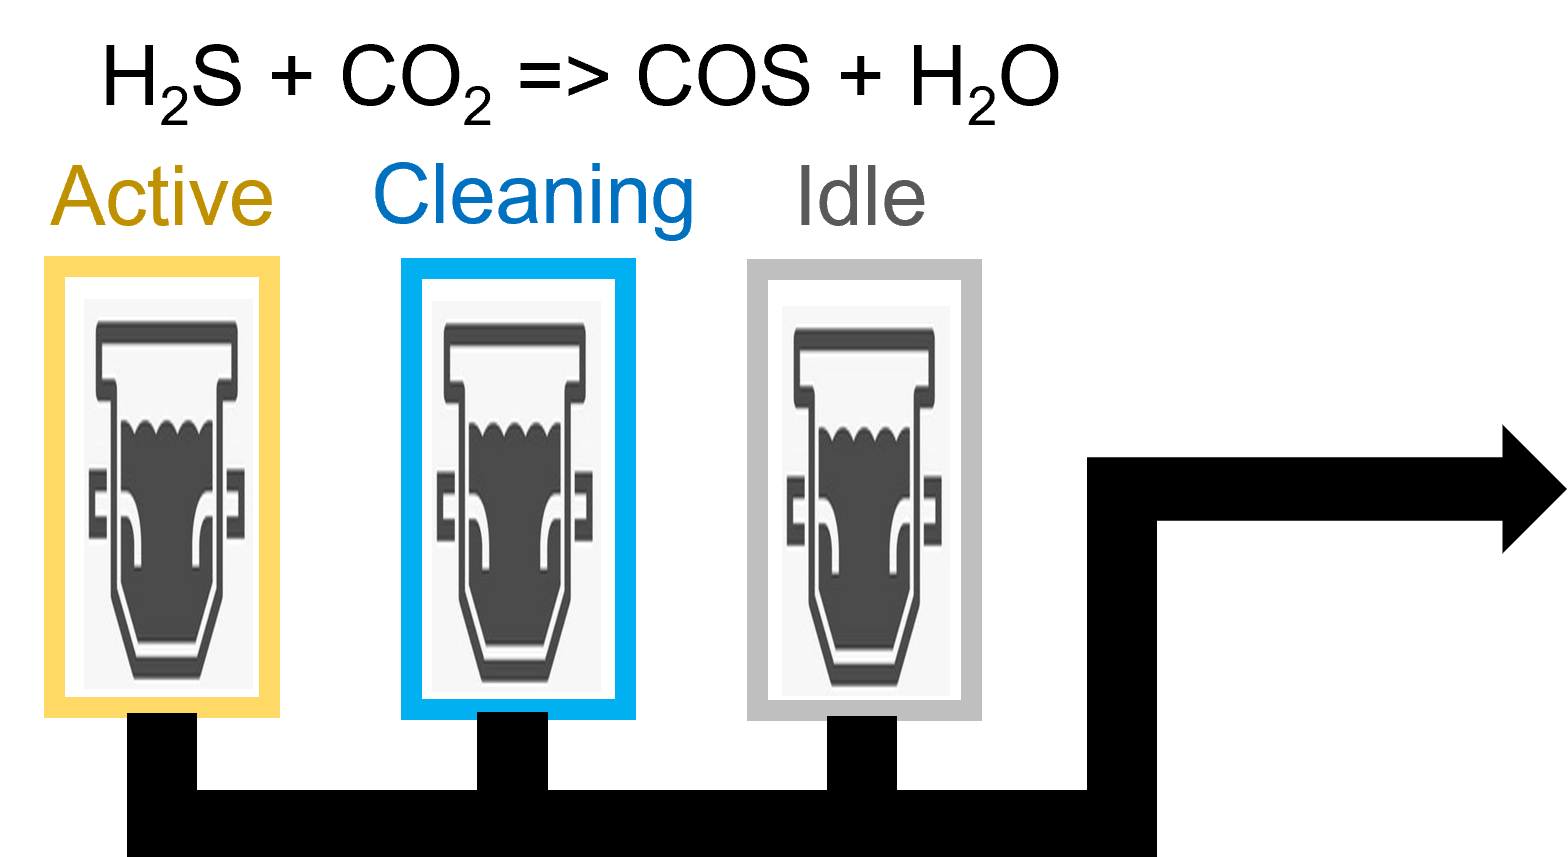
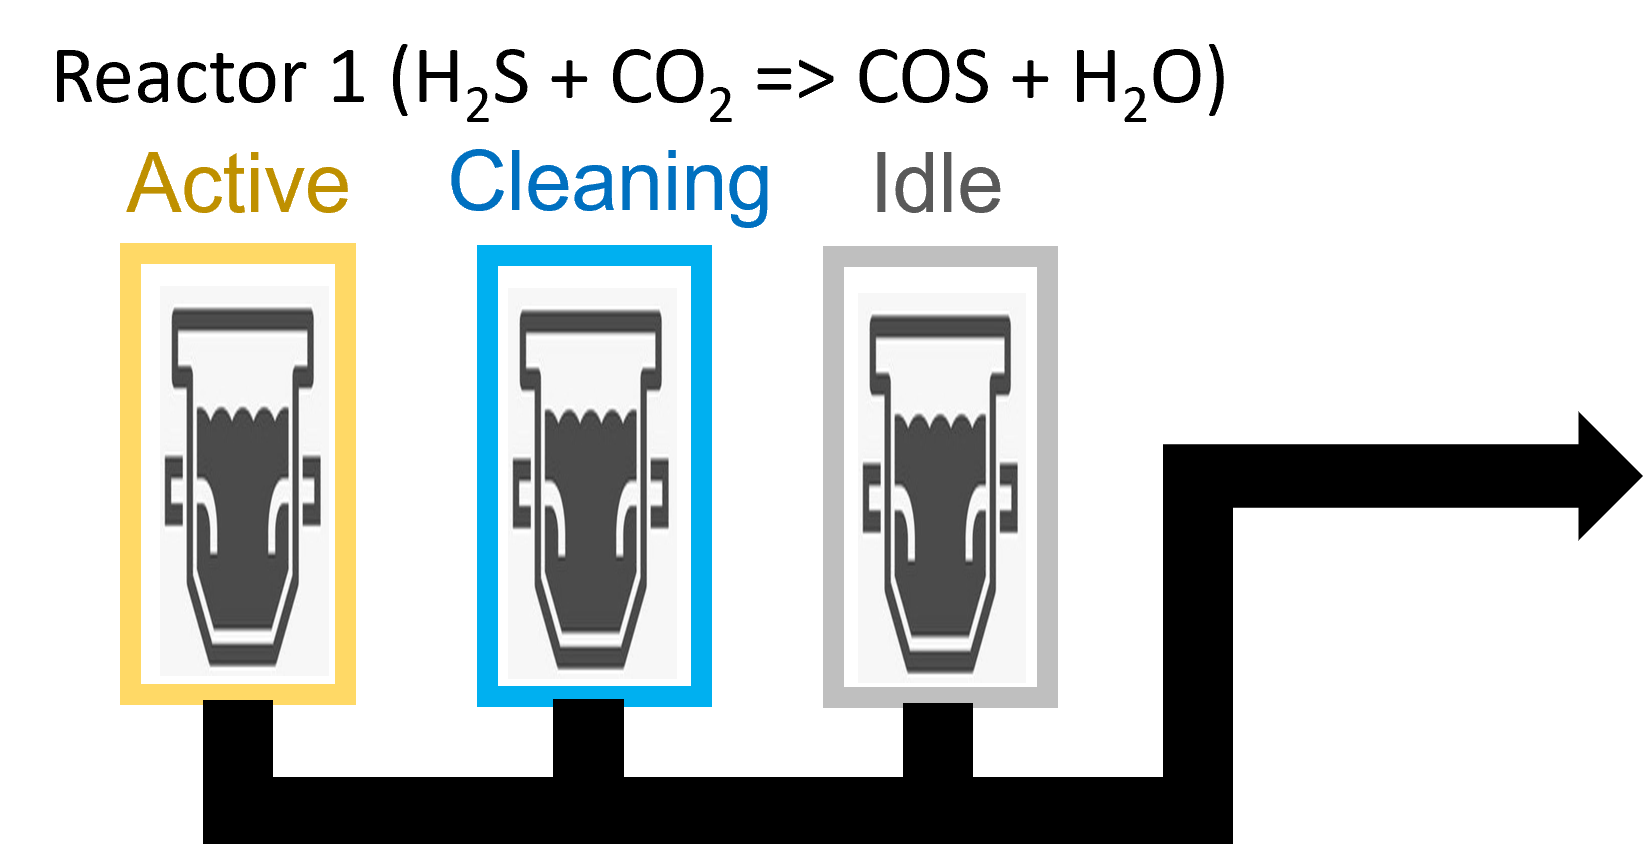
Working prototype. Added images and associated logic.

Changed region(s): [[0.0, 0.0308, 0.75, 1.0], [0.4688, 0.1848, 0.6562, 0.9242], [0.6875, 0.4929, 1.0, 1.0]]

diff --git a/dashboard_components.py b/dashboard_components.py
@@ -7,12 +7,10 @@ Created on Wed May 17 09:30:04 2023
 import numpy as np
 from plotly.subplots import make_subplots
 import plotly.graph_objects as go
-import plotly.express as px
 from weather_energy_components import data_length
 from plant_components import Battery, Reactor1, Reactor2
 from weather_energy_components import Hourly_state, distribute_energy, battery_max
 import math
-
 
 #periods per hour. Reactor states will be calculated "pph" times per hour. eg
 #if pph = 10, states are calculated every 1hr/10 = 6 min. This is necessary because 
@@ -22,13 +20,13 @@ pph = 10
 #step duration for each change of energy allocation
 alloc_step = 10
 
-#how fast r1 gets saturated per kg COS produced
+#how fast r1 gets saturated per mol COS produced
 r1_sat_factor = 5
 
 r1_clean_speed = 10
 
 #Sx filter saturation speed
-sx_sat_factor = .4
+sx_sat_factor = 3
 
 #length of graphs' x axes.
 idle_start_length = 500
@@ -52,8 +50,9 @@ sx_filter_changes = np.zeros(num_periods + idle_start_length)
 r1_changovers = np.zeros(num_periods + idle_start_length)
 
 #temp
-r11state = ["0"]*(num_periods + idle_start_length)
-
+r1_1_state = ["idle"]*(num_periods + idle_start_length)
+r1_2_state = ["idle"]*(num_periods + idle_start_length)
+r1_3_state = ["idle"]*(num_periods + idle_start_length)
 
 r1_prev = 0 
 r2_prev = 0 
@@ -63,12 +62,6 @@ reactor1_2 = Reactor1()
 reactor1_1.state = "active"
 reactor2 = Reactor2()
 battery = Battery(50)
-
-
-# def react_r1(r1, r1_e_current, r1_prev):
-#     r1.react(r1_e_current, r1_prev)
-    
-    
 
 #calculate conditions at each hourly state
 for hour in range(data_length):
@@ -115,7 +108,8 @@ for hour in range(data_length):
             else:
                 r1_changovers[period + idle_start_length] = r1_changovers[period + idle_start_length - 1]
         
-        r11state[period + idle_start_length] == reactor1_1.state
+        r1_1_state[period + idle_start_length] = reactor1_1.state
+        r1_2_state[period + idle_start_length] = reactor1_2.state
         
         r1_cos_out[period + idle_start_length] = r1_cos_current
         r1_e[period + idle_start_length] = r1_e_current
@@ -161,7 +155,7 @@ fig_r1.add_trace(go.Scatter(x=[], y=[], mode= "lines", name="Energy input",
                        row=1, col=1, secondary_y=True)
 fig_r1.update_xaxes(title_text="Minutes before present", range=[-500,0],
                           row=1, col=1)
-fig_r1.update_yaxes(title_text="Kg COS per hour", range=[0,1], 
+fig_r1.update_yaxes(title_text="mol COS per hour", range=[0,1], 
                     secondary_y=False, row=1, col=1)
 fig_r1.update_yaxes(title_text="kW", range=[0,6], 
                     secondary_y=True, row=1, col=1)
@@ -181,7 +175,7 @@ fig_r2.add_trace(go.Scatter(x=[], y=[], mode= "lines", name="Energy input",
                      row=1, col=1, secondary_y=True)
 fig_r2.update_xaxes(title_text="Minutes before present", range=[-500,0],
                           row=1, col=1)
-fig_r2.update_yaxes(title_text="Kg Sx per hour", range=[0,1], 
+fig_r2.update_yaxes(title_text="mol Sx per hour", range=[0,1], 
                     secondary_y=False, row=1, col=1)
 fig_r2.update_yaxes(title_text="kW", range=[0,20], 
                     secondary_y=True, row=1, col=1)
@@ -200,7 +194,7 @@ fig_r1_rxn.add_trace(go.Scatter(x=[], y=[], mode= "lines",
 fig_r1_rxn.add_trace(go.Scatter(x=[], y=[], marker=dict(color="red", size=20),
                                 mode="markers", name="Current state"), row=1, col=1)
 fig_r1_rxn.update_xaxes(title_text="kW", range=[0,10],row=1, col=1)
-fig_r1_rxn.update_yaxes(title_text="Kg COS per hour", range=[0,1.6],row=1, col=1)
+fig_r1_rxn.update_yaxes(title_text="mol COS per hour", range=[0,1.6],row=1, col=1)
 fig_r1_rxn.update_layout(title_text="Steady state COS output versus energy", title_x=0.5,
                          title=dict(yref="paper", y=1, yanchor="bottom", pad=dict(b=20)),
                          legend=dict(yanchor="bottom", xanchor="right", y=0.02, x=0.99),
@@ -216,7 +210,7 @@ fig_r2_rxn.add_trace(go.Scatter(x=[], y=[], mode= "lines",
 fig_r2_rxn.add_trace(go.Scatter(x=[], y=[], marker=dict(color="red", size=20),
                                 mode="markers", name="Current state"), row=1, col=1)
 fig_r2_rxn.update_xaxes(title_text="kW", range=[0,16], row=1, col=1)
-fig_r2_rxn.update_yaxes(title_text="Kg Sx per hour", range=[0,1.1], row=1, col=1)
+fig_r2_rxn.update_yaxes(title_text="mol Sx per hour", range=[0,1.1], row=1, col=1)
 fig_r2_rxn.update_layout(title_text="Steady state Sx output versus energy", title_x=0.5,
                          title=dict(yref="paper", y=1, yanchor="bottom", pad=dict(b=20)),
                          legend=dict(yanchor="bottom", xanchor="right", y=0.02, x=0.99),
@@ -311,6 +305,28 @@ def update1(n_intervals):
                               width=150)
     fig_bat_lvl.update_xaxes(showticklabels=False)
     fig_bat_lvl.update_yaxes(tickmode="array", tickvals=[round(bat_lvl_full)])
+    
+    if kw_to_battery > 0:
+        img_energy_flow = "assets/en_from_wind_to_bat_plant.png"
+    elif kw_gen == 0:
+        img_energy_flow = "assets/en_from_bat.png"
+    else:
+        img_energy_flow = "assets/en_from_bat_and_wind.png"
+        
+    if r1_1_state[n_intervals + idle_start_length] == "active" and \
+        r1_2_state[n_intervals + idle_start_length] == "idle":
+            img_r1_status = "assets/1active_2idle_3idle.png"
+    elif r1_1_state[n_intervals + idle_start_length] == "active" and \
+        r1_2_state[n_intervals + idle_start_length] == "cleaning":
+            img_r1_status = "assets/1active_2cleaning_3idle.png"
+    elif r1_1_state[n_intervals + idle_start_length] == "cleaning" and \
+        r1_2_state[n_intervals + idle_start_length] == "active":
+            img_r1_status = "assets/1cleaning_2active_3idle.png"
+    elif r1_1_state[n_intervals + idle_start_length] == "idle" and \
+        r1_2_state[n_intervals + idle_start_length] == "active":
+            img_r1_status = "assets/1idle_2active_3idle.png"
+    else:
+        img_r1_status = "assets/1idle_2idle_3idle.png"
 
     r1_saturation = r_1_1_sat[n_intervals + idle_start_length]
     r1_available = 100 - r1_saturation
@@ -364,38 +380,9 @@ def update1(n_intervals):
     fig_sx_sat.update_yaxes(tickmode="array", tickvals=[round(sx_saturation)])
 
     return (r1_updates, r2_updates, r1_rxn_updates, r2_rxn_updates, e_allocation,
-            round(kw_to_battery,2), time.strftime("%d-%m-%Y %H:%M"), fig_bat_lvl,# time.strftime("%d-%m-%Y %H:%M:%S"),
+            round(kw_to_battery,2), time.strftime("%d-%m-%Y %H:%M"), fig_bat_lvl,
+            img_energy_flow,
             round(kw_gen,2), round(r1_e[n_intervals + idle_start_length],2),
-            round(r2_e[n_intervals + idle_start_length],2),"X.XX", 
+            round(r2_e[n_intervals + idle_start_length],2),"X.XX", img_r1_status,
             fig_lvl_r1_1, fig_lvl_r1_2, fig_lvl_r1_3, r1_changeover_tally, 
             sx_changeovers, fig_sx_sat)
-
-#update function for r1 reactor saturations
-
-# def update_r1s(n_intervals):
-#     r1_saturation = r_1_1_sat[n_intervals + idle_start_length]
-#     r1_available = 100 - r1_saturation
-#     fig_lvl_r1_1 = go.Figure(data=[go.Bar(x=[1], y=[r1_saturation], marker_color="aqua"),
-#                                   go.Bar(x=[1], y=[r1_available],  marker_color="silver")])
-#     fig_lvl_r1_1.update_layout(title_text="", title_x=0.5, title_y=0.96,
-#                               barmode='stack', paper_bgcolor="rgba(0,0,0,0)",
-#                               plot_bgcolor='rgba(0, 0, 0, 0)', showlegend=False,
-#                               margin=dict(l=20, r=20, t=20, b=20), height=150,
-#                               width=100)
-#     fig_lvl_r1_1.update_xaxes(showticklabels=False)
-#     fig_lvl_r1_1.update_yaxes(tickmode="array", tickvals=[round(r1_saturation)])
-    
-#     r2_saturation = r_1_2_sat[n_intervals + idle_start_length]
-#     r2_available = 100 - r2_saturation
-#     fig_lvl_r1_2 = go.Figure(data=[go.Bar(x=[1], y=[r2_saturation], marker_color="aqua"),
-#                                   go.Bar(x=[1], y=[r2_available],  marker_color="silver")])
-#     fig_lvl_r1_2.update_layout(title_text="", title_x=0.5, title_y=0.96,
-#                               barmode='stack', paper_bgcolor="rgba(0,0,0,0)",
-#                               plot_bgcolor='rgba(0, 0, 0, 0)', showlegend=False,
-#                               margin=dict(l=20, r=20, t=20, b=20), height=150,
-#                               width=100)
-#     fig_lvl_r1_2.update_xaxes(showticklabels=False)
-#     fig_lvl_r1_2.update_yaxes(tickmode="array", tickvals=[round(r2_saturation)])
-    
-    
-#     return fig_lvl_r1_1, fig_lvl_r1_2

diff --git a/app.py b/app.py
@@ -10,24 +10,30 @@ import dash_bootstrap_components as dbc
 from dash.dependencies import Input, Output
 import dashboard_components as dc
 
-#use css to make a class for style=dict(display="inline-block", padding="10px") https://dash.plotly.com/external-resources
+
             
 app = dash.Dash(__name__, external_stylesheets=[dbc.themes.BOOTSTRAP], update_title=None)
 app.layout = dbc.Container([
     dbc.Row([dbc.Col([html.Div("Energy flowing to battery: ", className="num-display", style={"padding-left":"30em"}),
-                      html.Span(id="kw_to_battery", style={"padding-left":"30em", "padding-right":"10px"}),
+                      html.Span(id="kw_to_battery", style={"padding-left":"30em", 
+                                                           "padding-right":"10px",
+                                                           "text-decoration-line":"underline",
+                                                           "font-weight":"bold"}),
                       html.Span("kW")], width=7), #kW going from renewables to battery
             dbc.Col([html.Div("Time: ", className="num-display",  style={"padding-left":"15em"}),
                      html.Span(id="time")], 
                     width=5)
             ]), #Day and hour
     dbc.Row([dbc.Col([html.Div(dcc.Graph(id="bat_lvl_graph"), style={"float":"right"})], width=3), #bar chart w/ battery energy level
-            dbc.Col([html.Img(src=app.get_asset_url("en_from_wind_to_bat_plant.png"),
+            dbc.Col([html.Img(id="img_energy_flow",
                               width = "600em")], width=6), #image with windmill icon and battery icon
             dbc.Col([html.Div("Energy generated by renewables:", className="num-display",
                               style={"padding-top":"65px"}),
                      html.Br(),
-                     html.Span(id="kw_gen", style={"padding":"0 10px"}), html.Span("kW")],
+                     html.Span(id="kw_gen", style={"padding":"0 10px",
+                                                   "text-decoration-line":"underline",
+                                                   "font-weight":"bold"}), 
+                     html.Span("kW")],
                     width=3)]
             ), #current kW generated by renewables
     dbc.Row(dbc.Col([html.Img(src=app.get_asset_url("three_arrows.png"), width = "940em", style={"padding-left":"140px"})],
@@ -39,7 +45,7 @@ app.layout = dbc.Container([
             dbc.Col([html.Span(id="kw_to_condenser", style={"padding-left":"120px"}), 
                      html.Div("kW", className="num-display")],width=6)
             ]), #kW to condenser
-    dbc.Row([dbc.Col([html.Img(src=app.get_asset_url("1active_2cleaning_3idle.png"),
+    dbc.Row([dbc.Col([html.Img(id="img_r1_status",
                       width = "450em")], width=4), #diagram with the 3 R1's and their status's
             dbc.Col([html.Br(),html.Img(src=app.get_asset_url("S_reactor_to_filter.png"),
                               width = "750em")], width=8)]), #static image with R2, condenser, and sulfur screen
@@ -78,10 +84,12 @@ app.layout = dbc.Container([
               Output(component_id='kw_to_battery', component_property='children'),
               Output(component_id='time', component_property='children'),
               Output(component_id='bat_lvl_graph', component_property='figure'),
+              Output(component_id='img_energy_flow', component_property='src'),
               Output(component_id='kw_gen', component_property='children'),
               Output(component_id='kw_to_r1', component_property='children'),
               Output(component_id='kw_to_r2', component_property='children'),
               Output(component_id='kw_to_condenser', component_property='children'),
+              Output(component_id='img_r1_status', component_property='src'),
               Output(component_id='fig_lvl_r1_1', component_property='figure'),
               Output(component_id='fig_lvl_r1_2', component_property='figure'),
               Output(component_id='fig_lvl_r1_3', component_property='figure'),

diff --git a/plant_components.py b/plant_components.py
@@ -12,11 +12,6 @@ class Battery:
     def __init__(self,charge):
         self.charge = charge
         self.efficiency = 0.9 #note this might be a function of charge etc, so not a simple constant
-        
-# class MetaReactor1(type):
-#     @property
-#     def saturation(cls):
-#         return cls.saturation
     
 class Reactor1():
     ku = .1 
@@ -27,20 +22,6 @@ class Reactor1():
         self.state = "idle"
         self.saturation = 0
         
-    # @property
-    # def saturation(self):
-    #     return type(self).saturation
-        
-    # def _get_saturation(self):
-    #     return self._saturation
-    
-    # def _set_saturation(self, value):
-    #     self._saturation = value
-        
-    # radius = property(
-    #     fget = _get_saturation,
-    #     fset = _set_saturation)
-
     @classmethod
     def ss_output(cls, energy):
         return 2/(1 + math.exp(-energy + 1))-0.54
